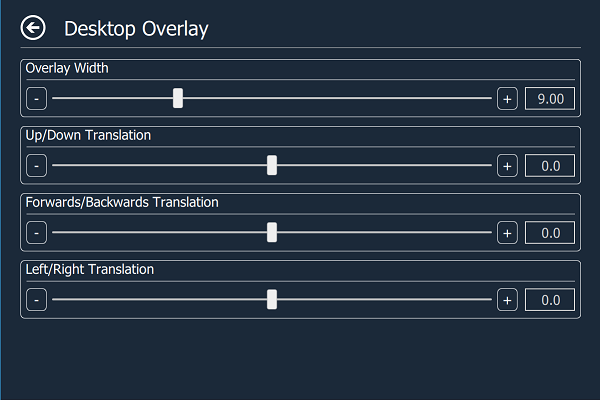
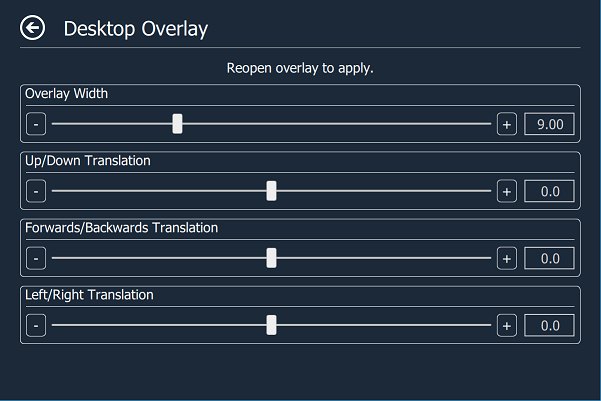
Add instruction to desktop overlay page
It is not apparent that reopening the overlay applies the changes. The
text will make that apparent. Centered to improve visibility.

Changed region(s): [[0.0, 0.0, 1.0, 1.0], [0.36, 0.15, 0.63, 0.21], [0.03, 0.03, 0.36, 0.09]]

diff --git a/src/res/qml/desktop_overlay_page/DesktopOverlayPage.qml b/src/res/qml/desktop_overlay_page/DesktopOverlayPage.qml
@@ -14,6 +14,12 @@ MyStackViewPage {
     content: ColumnLayout {
         spacing: 18
 
+        MyText {
+            Layout.alignment: Qt.AlignHCenter
+            horizontalAlignment: Text.AlignHCenter
+            text: "Reopen overlay to apply."
+        }
+
         SteamDesktopGroupBox {
         }
 
